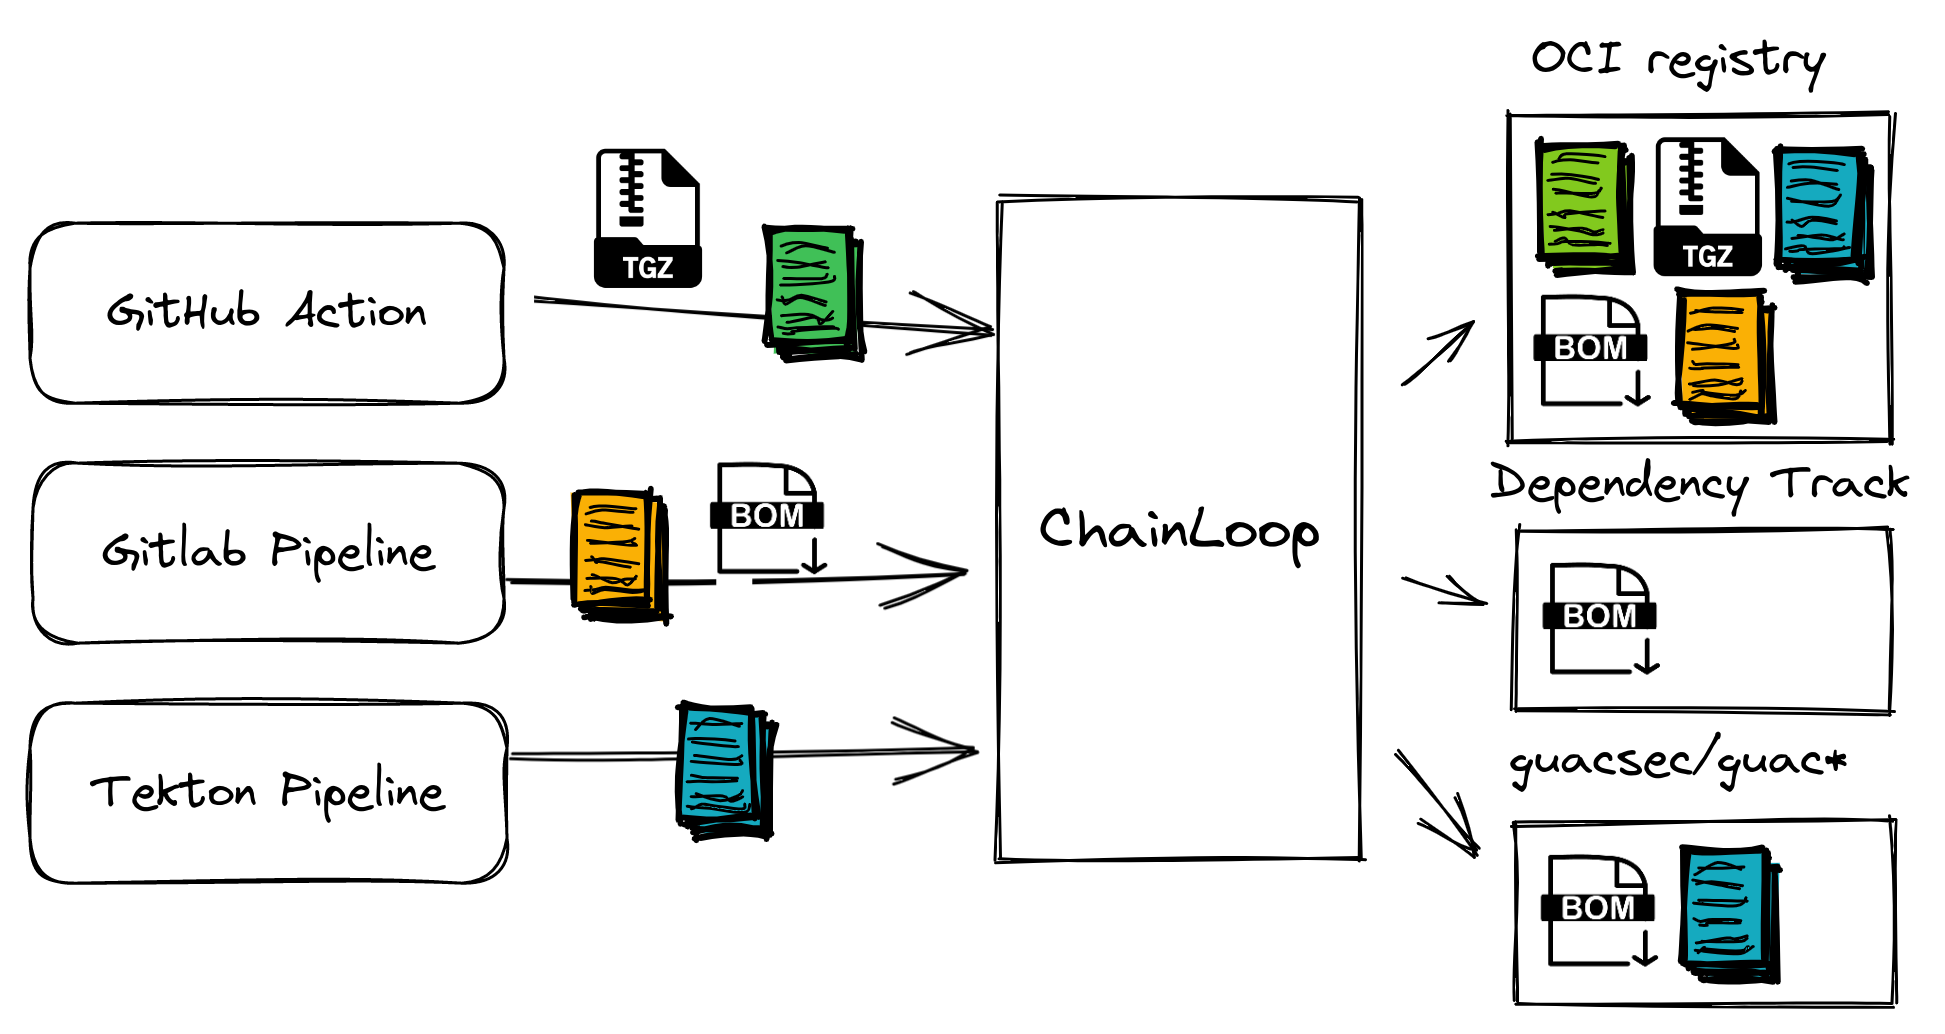
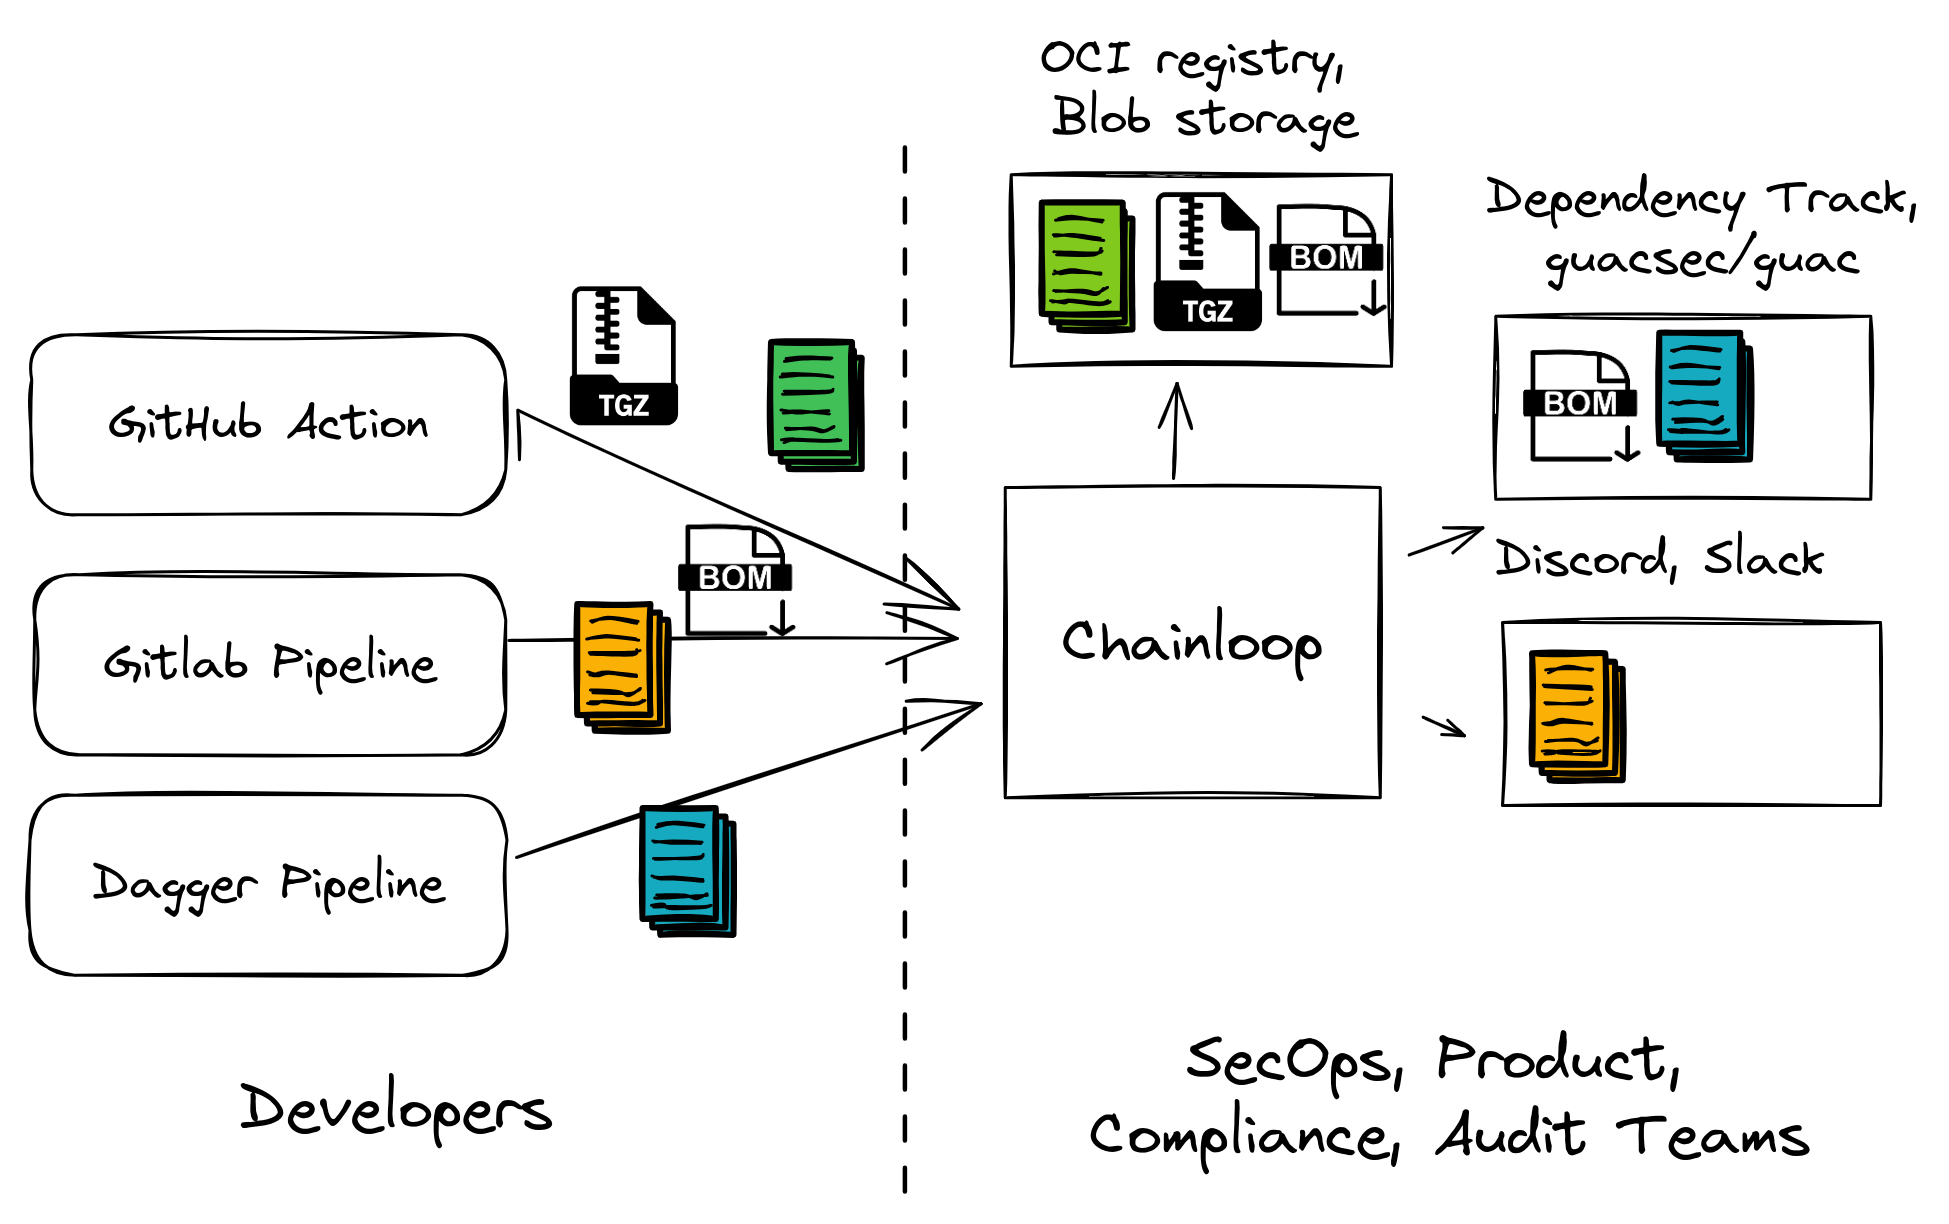
doc: update images in readme (#573)

Changed region(s): [[0.0, 0.0309, 0.9871, 0.9903], [0.7095, 0.7427, 0.7404, 0.7737]]

diff --git a/README.md b/README.md
@@ -11,13 +11,13 @@
 
 ## What is it?
 
-Chainloop is an open-source software supply chain control plane, a single source of truth for artifacts plus a declarative attestation process.
+Chainloop is an open-source Software Supply Chain control plane, a single source of truth for metadata and artifacts, plus a declarative attestation process.
 
-With Chainloop, SecOps teams can declaratively state the attestation and artifacts expectations for their organization’s CI/CD workflows, while also resting assured that the latest standards and best practices are put in place.
+With Chainloop, SecOps teams can declaratively state the pieces of evidence and artifact expectations for their organization’s CI/CD workflows. At the same time, they can rest assured that the metadata will reach the desired destination for storage and analysis, always meeting the latest standards and best practices.
 
-Developer teams, on the other hand, do not need to become security experts, the attestation crafting tool will guide them with guardrails and a familiar developer experience.
+On the other hand, developer teams do not need to become security experts. The attestation crafting tool will guide them with guardrails and a familiar developer experience.
 
-To learn more about the project motivation please look at [this blog post](https://docs.chainloop.dev/blog/introducing-chainloop) and see it in action in [this video](https://docs.chainloop.dev/blog/software-supply-chain-attestation-easy-way#see-it-in-action).
+To learn more about the project motivation please look at [our documentation](https://docs.chainloop.dev) and see it in action in [this video](https://www.youtube.com/watch?v=GfSR2ZkZ3as).
 
 ## Getting started
 
@@ -87,7 +87,7 @@ Craft and store attestation metadata and artifacts via a single integration poin
 
 ![Chainloop Overview](./docs/img/overview-1.png)
 
-The result is having a SLSA level 3 compliant single Source of truth for artifacts and attestation built on OSS standards such as [Sigstore](https://www.sigstore.dev/), [in-toto](https://in-toto.io/), [SLSA](https://slsa.dev) and [OCI](https://github.com/opencontainers/image-spec/blob/main/spec.md).
+The result is having a SLSA level 3 compliant single Source of truth for metadata, artifacts and attestations built on OSS standards such as [Sigstore](https://www.sigstore.dev/), [in-toto](https://in-toto.io/), [SLSA](https://slsa.dev) and [OCI](https://github.com/opencontainers/image-spec/blob/main/spec.md).
 
 Chainloop also makes sure the crafting of artifacts and attestation follows **best practices and meets the requirements** declared in their associated Workflow Contract.
 
@@ -101,9 +101,9 @@ You can think of it as an [**API for your organization's Software Supply Chain**
 
 ![Chainloop Contracts](./docs/img/overview-3.png)
 
-### Third-Party Integration fan-out
+### We meet you where you are with third-party integrations
 
-Operators can set up third-party integrations such as [Dependency-Track](https://docs.chainloop.dev/guides/dependency-track) for SBOM analysis or an OCI registry for storage of the received artifacts and attestation metadata.
+Operators can set up third-party integrations such as [Dependency-Track](https://docs.chainloop.dev/guides/dependency-track), or [Guac](https://docs.chainloop.dev/guides/guac/) for SBOM analysis or a storage backend such as an OCI registry, or cloud blob storage to place the received artifacts, pieces of evidence and attestation metadata.
 
 ![Chainloop Overview](./docs/img/overview-2.png)
 
